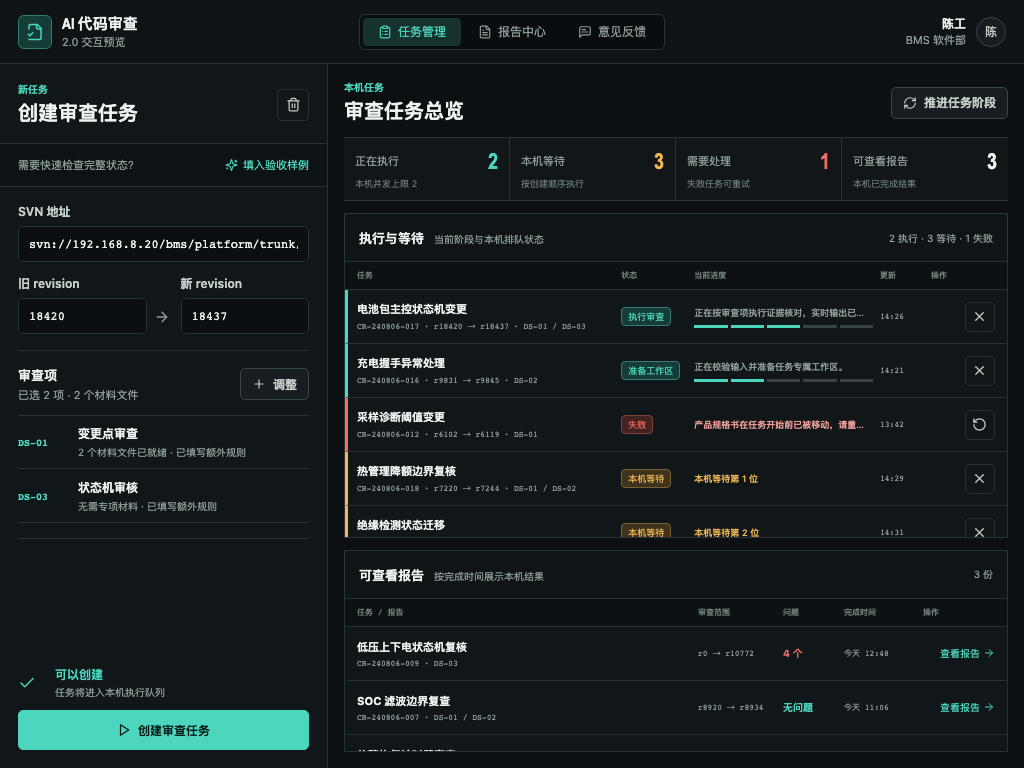
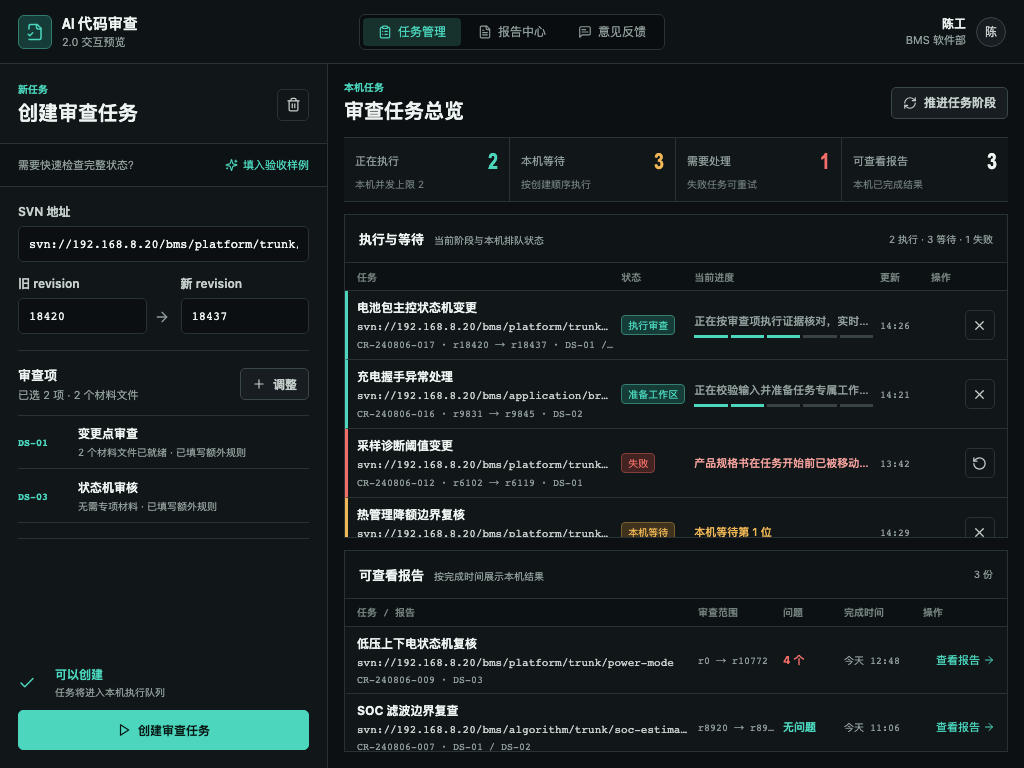
提升工作台任务与报告可读性

diff --git a/Agent/code_review_platform/code_review_electron/src/renderer/src/workbench-preview/workbench-preview.css b/Agent/code_review_platform/code_review_electron/src/renderer/src/workbench-preview/workbench-preview.css
@@ -1750,7 +1750,7 @@ input[type="checkbox"] {
 .wb-overview > div small {
   grid-column: 1 / -1;
   color: #6f7d7a;
-  font-size: 9px;
+  font-size: 10px;
 }
 
 .wb-task-management .wb-task-section,
@@ -1767,7 +1767,7 @@ input[type="checkbox"] {
   color: #74827f;
   background: #0c1113;
   font-family: var(--wb-utility);
-  font-size: 8px;
+  font-size: 10px;
   font-weight: 700;
 }
 
@@ -1797,7 +1797,7 @@ input[type="checkbox"] {
   display: grid;
   align-items: center;
   min-width: 0;
-  min-height: 54px;
+  min-height: 66px;
   padding: 8px 12px 8px 9px;
   border-bottom: 1px solid var(--wb-line);
   border-left: 3px solid var(--wb-line-strong);
@@ -1823,13 +1823,11 @@ input[type="checkbox"] {
 .wb-task-identity strong,
 .wb-management-report-row > div:first-child strong {
   overflow: hidden;
-  font-size: 11px;
+  font-size: 12px;
   text-overflow: ellipsis;
   white-space: nowrap;
 }
 
-.wb-task-identity span,
-.wb-management-report-row > div:first-child span,
 .wb-management-report-row > span,
 .wb-management-report-row time,
 .wb-task-table-row time {
@@ -1837,14 +1835,34 @@ input[type="checkbox"] {
   overflow: hidden;
   color: var(--wb-muted);
   font-family: var(--wb-utility);
-  font-size: 8px;
+  font-size: 10px;
   text-overflow: ellipsis;
   white-space: nowrap;
+}
+
+.wb-row-svn,
+.wb-row-meta {
+  min-width: 0;
+  overflow: hidden;
+  color: var(--wb-muted);
+  font-family: var(--wb-utility);
+  text-overflow: ellipsis;
+  white-space: nowrap;
+}
+
+.wb-row-svn {
+  color: var(--wb-text-soft);
+  font-size: 11px;
+}
+
+.wb-row-meta {
+  font-size: 10px;
 }
 
 .wb-task-table-row .wb-status-label {
   justify-self: start;
   margin: 0;
+  font-size: 10px;
 }
 
 .wb-task-progress {
@@ -1856,7 +1874,7 @@ input[type="checkbox"] {
 .wb-task-progress > strong {
   overflow: hidden;
   color: var(--wb-muted);
-  font-size: 9px;
+  font-size: 11px;
   font-weight: 500;
   text-overflow: ellipsis;
   white-space: nowrap;
@@ -1898,7 +1916,7 @@ input[type="checkbox"] {
 }
 
 .wb-management-report-row > strong {
-  font-size: 10px;
+  font-size: 11px;
 }
 
 .wb-management-report-row > strong.is-high { color: var(--wb-danger); }
@@ -1914,7 +1932,7 @@ input[type="checkbox"] {
   border: 0;
   color: var(--wb-accent);
   background: transparent;
-  font-size: 10px;
+  font-size: 11px;
   white-space: nowrap;
 }
 
@@ -1953,12 +1971,12 @@ input[type="checkbox"] {
   justify-content: space-between;
   padding: 0 13px;
   border-bottom: 1px solid var(--wb-line);
-  font-size: 11px;
+  font-size: 12px;
 }
 
 .wb-report-index > header span {
   color: var(--wb-muted);
-  font-size: 9px;
+  font-size: 10px;
 }
 
 .wb-report-index > div {
@@ -1969,7 +1987,7 @@ input[type="checkbox"] {
 .wb-report-index button {
   display: grid;
   width: 100%;
-  gap: 7px;
+  gap: 6px;
   padding: 13px;
   border: 0;
   border-bottom: 1px solid var(--wb-line);
@@ -2009,19 +2027,25 @@ input[type="checkbox"] {
 
 .wb-report-index-title strong {
   overflow: hidden;
-  font-size: 11px;
+  font-size: 12px;
   text-overflow: ellipsis;
   white-space: nowrap;
 }
 
+.wb-report-index-svn,
 .wb-report-index button small,
 .wb-report-index-meta {
+  min-width: 0;
   overflow: hidden;
   color: var(--wb-muted);
   font-family: var(--wb-utility);
-  font-size: 8px;
+  font-size: 10px;
   text-overflow: ellipsis;
   white-space: nowrap;
+}
+
+.wb-report-index-svn {
+  color: var(--wb-text-soft);
 }
 
 .wb-report-index-meta strong.is-high { color: var(--wb-danger); }

diff --git a/Agent/code_review_platform/code_review_electron/src/renderer/src/workbench-preview/ReviewWorkbenchPreview.tsx b/Agent/code_review_platform/code_review_electron/src/renderer/src/workbench-preview/ReviewWorkbenchPreview.tsx
@@ -127,8 +127,9 @@ const TaskTableRow = ({
 }): React.JSX.Element => (
   <article className={`wb-task-table-row ${taskStageClass(task)}`} aria-label={`${task.id} ${task.title}`}>
     <div className="wb-task-identity">
-      <strong>{task.title}</strong>
-      <span>{task.id} · {formatRevisionLabel(task.oldRevision)} → {formatRevisionLabel(task.newRevision)} · {task.reviewItemIds.join(' / ')}</span>
+      <strong title={task.title}>{task.title}</strong>
+      <span className="wb-row-svn" title={task.svnUrl}>{task.svnUrl}</span>
+      <span className="wb-row-meta">{task.id} · {formatRevisionLabel(task.oldRevision)} → {formatRevisionLabel(task.newRevision)} · {task.reviewItemIds.join(' / ')}</span>
     </div>
     <span className="wb-status-label">{task.stageLabel}</span>
     <div className="wb-task-progress">
@@ -250,7 +251,11 @@ function TaskManagementView({
           <div className="wb-management-report-list">
             {viewModel.reports.map((report) => (
               <article className="wb-management-report-row" key={report.id}>
-                <div><strong>{report.title}</strong><span>{report.taskId} · {report.reviewItemIds.join(' / ')}</span></div>
+                <div>
+                  <strong title={report.title}>{report.title}</strong>
+                  <span className="wb-row-svn" title={report.svnUrl}>{report.svnUrl}</span>
+                  <span className="wb-row-meta">{report.taskId} · {report.reviewItemIds.join(' / ')}</span>
+                </div>
                 <span>{report.revisionRange}</span>
                 <strong className={report.highestSeverity ? `is-${report.highestSeverity}` : undefined}>{report.issueCount === undefined ? `问题数未知${report.highestSeverity ? '' : ' · 严重度未知'}` : `${report.issueCount === 0 ? '无问题' : `${report.issueCount} 个`}${report.highestSeverity ? '' : ' · 严重度未知'}`}</strong>
                 <time>{report.completedAt}</time>
@@ -322,7 +327,8 @@ function ReportCenterView({
           <div>
             {reports.map((report) => (
               <button className={selectedReport?.id === report.id ? 'is-active' : ''} type="button" aria-current={selectedReport?.id === report.id ? 'page' : undefined} key={report.id} onClick={() => onSelect(report.id)}>
-                <span className="wb-report-index-title"><FileText aria-hidden="true" /><strong>{report.title}</strong></span>
+                <span className="wb-report-index-title"><FileText aria-hidden="true" /><strong title={report.title}>{report.title}</strong></span>
+                <span className="wb-report-index-svn" title={report.svnUrl}>{report.svnUrl}</span>
                 <small>{report.taskId} · {report.revisionRange}</small>
                 <span className="wb-report-index-meta"><span>{report.completedAt}</span><strong className={report.highestSeverity ? `is-${report.highestSeverity}` : undefined}>{report.issueCount === undefined ? `问题数未知${report.highestSeverity ? '' : ' · 严重度未知'}` : `${report.issueCount === 0 ? '无问题' : `${report.issueCount} 个问题`}${report.highestSeverity ? '' : ' · 严重度未知'}`}</strong></span>
               </button>

diff --git a/Agent/code_review_platform/code_review_electron/src/renderer/src/workbench-preview/ReviewWorkbenchPreview.test.tsx b/Agent/code_review_platform/code_review_electron/src/renderer/src/workbench-preview/ReviewWorkbenchPreview.test.tsx
@@ -123,6 +123,17 @@ describe('ReviewWorkbenchPreview', () => {
     expect(screen.getByText('本机等待第 3 位')).toBeInTheDocument()
     expect(screen.getByText('产品规格书在任务开始前已被移动，请重新选择材料后从头重试。')).toBeInTheDocument()
     expect(screen.getByText('任务已由当前用户取消。')).toBeInTheDocument()
+    const runningTask = screen.getByLabelText('CR-240806-017 电池包主控状态机变更')
+    expect(within(runningTask).getByTitle('svn://192.168.8.20/bms/platform/trunk/vehicle-control/pack-controller')).toHaveTextContent(
+      'svn://192.168.8.20/bms/platform/trunk/vehicle-control/pack-controller'
+    )
+
+    const reportRow = screen.getByText('低压上下电状态机复核').closest('.wb-management-report-row')
+    expect(reportRow).not.toBeNull()
+    expect(within(reportRow as HTMLElement).getByTitle('svn://192.168.8.20/bms/platform/trunk/power-mode')).toHaveTextContent(
+      'svn://192.168.8.20/bms/platform/trunk/power-mode'
+    )
+    expect(reportRow).toHaveTextContent('CR-240806-009 · DS-03')
 
     await user.click(screen.getByRole('button', { name: '从头重试 CR-240806-012' }))
     expect(await screen.findByRole('status')).toHaveTextContent('已从头重试')
@@ -147,6 +158,10 @@ describe('ReviewWorkbenchPreview', () => {
     expect(within(preview).getByRole('table')).toHaveTextContent('处置建议')
 
     const socReportButton = screen.getByRole('button', { name: /SOC 滤波边界复查/ })
+    expect(within(socReportButton).getByTitle('svn://192.168.8.20/bms/algorithm/trunk/soc-estimation')).toHaveTextContent(
+      'svn://192.168.8.20/bms/algorithm/trunk/soc-estimation'
+    )
+    expect(socReportButton).toHaveTextContent('CR-240806-007 · r8920 → r8934')
     await user.click(socReportButton)
     expect(socReportButton).toHaveAttribute('aria-current', 'page')
     expect(within(preview).getByRole('heading', { name: 'SOC 滤波边界复查' })).toBeInTheDocument()
